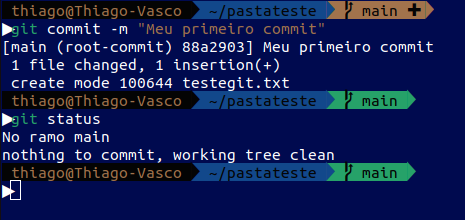
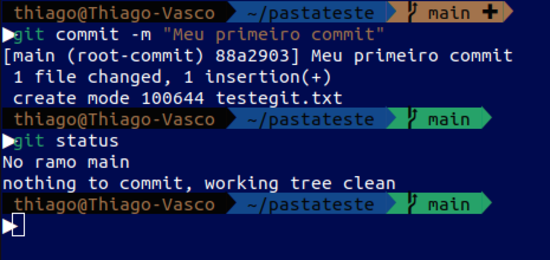
Finalizados comandos de config inicial

diff --git a/index.html b/index.html
@@ -78,7 +78,7 @@
             <section id="comandosconfig">
                 <ul>
                     <li>
-                        <h3>Configurações iniciais</h3>
+                        <h3>Configurações iniciais / Utilitários</h3>
                     </li>
                 </ul>
 
@@ -92,23 +92,61 @@
                         <dt>1- <b>git config</b></dt>
 
                         <dd>
-
+                            O comando git config é utilizado no sistema de controle de versões para <b>configurar opções
+                                específicas do usuário, repositório ou sistema</b>. É importante que o seu nome de
+                            usuário e e-mail estejam configurados de forma correta a fim de facilitar a comunicação
+                            durante a realização de um projeto no Git.
                         </dd>
                     </div>
                 </dl>
 
+                <figure>
+                    <figcaption>Exemplo:</figcaption>
+                    <img src="img/ex_gitconfig.png" alt="Exemplo Git Config" title="Exemplo Git Config" width="549"
+                        height="171" loading="lazy">
+                </figure>
 
 
+                <div class="container">
+                    <small>*Além da configuração padrão do username e e-mail, é boa prática trocar o nome da branch
+                        padrão de master para main, visto que é a norma utilizada atualmente.</small>
+
+                    <p>
+                        É importante ressaltar que o comando <b>git config pode ser usado para fazer configurações
+                            específicas a um repositório, ou para o âmbito global da sua máquina</b>. A opção --global é
+                        o que faz a configuração escolhida atuar para todos os repositórios, sem ele, as mudanças são
+                        locais.Também vale lembrar as diversas funcionalidade do comando, podendo ser usado para listar
+                        as configurações atuais com --list, pode ser usado também com --get, afim de emitir algum desses
+                        tópicos individualmente, dentre outras funções que você pode conferir com a execução do próximo
+                        comando da nossa lista.
+                    </p>
 
 
+                </div>
 
+                <dl>
+                    <div class="container">
+                        <dt>2- <b>git help</b></dt>
 
+                        <dd>
+                            O comando git help <b>é usado para obter ajuda sobre os comandos do Git</b>. Quando você
+                            executa git help, ele exibe informações sobre como usar o Git, incluindo uma lista de
+                            comandos e opções disponíveis, além de fornecer uma descrição detalhada de cada comando. Se
+                            você deseja conferir os usos de um comando específico, basta digitar "git help
+                            nomedocomando" e o Git irá abrir um manual com a descrição e todos os usos do comando
+                            desejado.
+                        </dd>
+                    </div>
+                </dl>
 
-
-
-
+                <figure>
+                    <figcaption>Exemplo:</figcaption>
+                    <img src="img/ex_githelp.png" alt="Exemplo Git Help" title="Exemplo Git Help" width="716"
+                        height="828" loading="lazy">
+                </figure>
 
             </section>
+
             <section id="comandosinicializar">
                 <ul>
                     <li>
@@ -206,13 +244,77 @@
                 <figure>
                     <figcaption>Exemplo:</figcaption>
                     <img src="img/ex_gitcommit.png" alt="Exemplo do comando git commit"
-                        title="Exemplo do comando git commit" width="465" height="220" loading="lazy">
+                        title="Exemplo do comando git commit" width="550" height="260" loading="lazy">
                 </figure>
 
                 <div class="container">
                     <p>Note que agora o estado atual do repositório Git foi salvo, podendo ser restaurado a qualquer
                         momento.</p>
                 </div>
+            </section>
+
+            <section id="comandoscontrole">
+                <ul>
+                    <li>
+                        <h3>Controle de Repositório / Repositório Remoto</h3>
+                    </li>
+                </ul>
+                <dl>
+                    <div class="container">
+                        <dt>1- <b>git remote</b></dt>
+
+                        <dd>
+                            Com esse comando, você pode <b>associar seu repositório local Git a um repositório na nuvem
+                                do Github</b>. É importante destacar que "git remote" tem inúmeras funções e usos no
+                            cotidiano de um programador, podendo ser usado como:
+                            <ul>
+
+                                <li>git remote -v: Exibe os nomes e URLs de todos os repositórios remotos configurados.
+                                </li>
+
+                                <li>git remote add origin &lt;url&gt; Adiciona um novo repositório remoto chamado
+                                    'origin' com o URL especificado.</li>
+
+                                <li>git remote rename origin upstream: Renomeia o repositório remoto 'origin' para
+                                    'upstream'.</li>
+                                <li>git remote remove origin: Remove o repositório remoto chamado 'origin' do seu
+                                    projeto Git.
+                                </li>
+                            </ul>
+
+                            <small>* Antes de demonstrar um exemplo prático, vamos ao comando git push, o "maior aliado"
+                                do git remote. </small>
+                        </dd>
+                    </div>
+                </dl>
+
+                <dl>
+                    <div class="container">
+                        <dt>2- <b>git push</b></dt>
+                        <dd>O comando git push é <b>usado para enviar commits locais para um repositório remoto</b>.
+                            <i>Ele atualiza o repositório remoto</i> com as alterações que você fez no seu repositório
+                            local.
+                        </dd>
+                    </div>
+                </dl>
+
+                <figure>
+                    <figcaption>Exemplo:</figcaption>
+                    <img src="img/ex_gitremote_gitpush.png" alt="Exemplos Git Remote e Git Push"
+                        title="Exemplos Git Remote e Git Push" width="556" height="198" loading="lazy">
+                </figure>
+
+                <div class="container">
+                    <p>Note que <i>antes de enviar o repositório local a um ambiente remoto</i> <b>é necessário o uso do
+                            comando git remote</b>. Após seguir estas instruções, você já poderá observar seu
+                        repositório no github. </p>
+                </div>
+
+                <figure>
+                    <img src="img/ex_repremoto.png" alt="Exemplos Git Remote e Git Push"
+                        title="Exemplos Git Remote e Git Push" width="612" height="265" loading="lazy">
+                </figure>
+
             </section>
         </article>
     </main>
